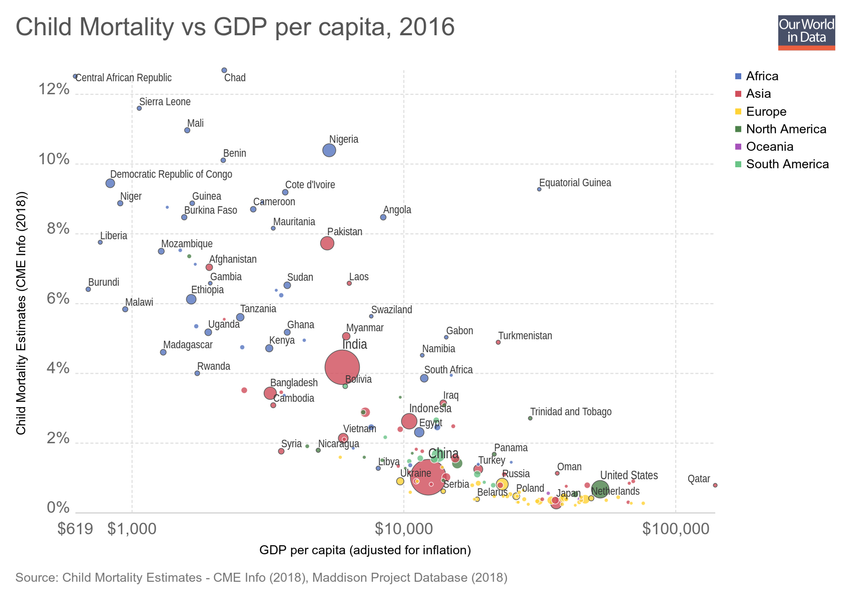
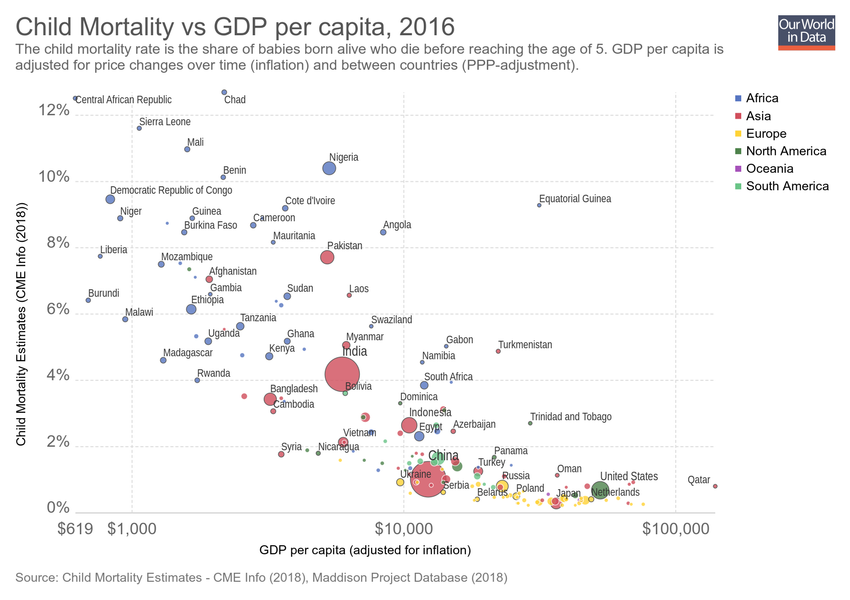
Updating chart child-mortality-vs-gdp-per-capita

diff --git a/grapher/child-mortality-vs-gdp-per-capita.html b/grapher/child-mortality-vs-gdp-per-capita.html
@@ -1,4 +1,4 @@
-<!doctype html><html><head><meta name="viewport" content="width=device-width, initial-scale=1" /><title>Child Mortality vs GDP per capita - Our World in Data</title><meta name="description" content="An interactive visualization from Our World in Data." /><link rel="canonical" href="https://ourworldindata.org/grapher/child-mortality-vs-gdp-per-capita" /><meta property="fb:app_id" content="1149943818390250" /><meta property="og:url" content="https://ourworldindata.org/grapher/child-mortality-vs-gdp-per-capita" /><meta property="og:title" content="Child Mortality vs GDP per capita" /><meta property="og:description" content="An interactive visualization from Our World in Data." /><meta property="og:image" content="https://ourworldindata.org/grapher/exports/child-mortality-vs-gdp-per-capita.png?v=3" /><meta property="og:image:width" content="850" /><meta property="og:image:height" content="600" /><meta property="og:site_name" content="Our World in Data" /><meta name="twitter:card" content="summary_large_image" /><meta name="twitter:site" content="@OurWorldInData" /><meta name="twitter:creator" content="@OurWorldInData" /><meta name="twitter:title" content="Child Mortality vs GDP per capita" /><meta name="twitter:description" content="An interactive visualization from Our World in Data." /><meta name="twitter:image" content="https://ourworldindata.org/grapher/exports/child-mortality-vs-gdp-per-capita.png?v=3" /><style>
+<!doctype html><html><head><meta name="viewport" content="width=device-width, initial-scale=1" /><title>Child Mortality vs GDP per capita - Our World in Data</title><meta name="description" content="The child mortality rate is the share of babies born alive who die before reaching the age of 5. GDP per capita is adjusted for price changes over time (inflation) and between countries (PPP-adjustment)." /><link rel="canonical" href="https://ourworldindata.org/grapher/child-mortality-vs-gdp-per-capita" /><meta property="fb:app_id" content="1149943818390250" /><meta property="og:url" content="https://ourworldindata.org/grapher/child-mortality-vs-gdp-per-capita" /><meta property="og:title" content="Child Mortality vs GDP per capita" /><meta property="og:description" content="The child mortality rate is the share of babies born alive who die before reaching the age of 5. GDP per capita is adjusted for price changes over time (inflation) and between countries (PPP-adjustment)." /><meta property="og:image" content="https://ourworldindata.org/grapher/exports/child-mortality-vs-gdp-per-capita.png?v=5" /><meta property="og:image:width" content="850" /><meta property="og:image:height" content="600" /><meta property="og:site_name" content="Our World in Data" /><meta name="twitter:card" content="summary_large_image" /><meta name="twitter:site" content="@OurWorldInData" /><meta name="twitter:creator" content="@OurWorldInData" /><meta name="twitter:title" content="Child Mortality vs GDP per capita" /><meta name="twitter:description" content="The child mortality rate is the share of babies born alive who die before reaching the age of 5. GDP per capita is adjusted for price changes over time (inflation) and between countries (PPP-adjustment)." /><meta name="twitter:image" content="https://ourworldindata.org/grapher/exports/child-mortality-vs-gdp-per-capita.png?v=5" /><style>
         html, body {
             height: 100%;
             margin: 0;
@@ -20,8 +20,8 @@
         }
     </style><noscript><style>
                     figure { display: none !important; }
-                </style></noscript><link rel="stylesheet" href="https://ourworldindata.org/grapher/assets/commons.bundle.9b8c6ed3f71d7662b5f2.css" /><link rel="preload" href="/grapher/data/variables/201+66390+72+123.json?v=3" as="fetch" crossorigin /></head><body class="singleChart"><figure data-grapher-src="/grapher/child-mortality-vs-gdp-per-capita"></figure><noscript id="fallback"><img src="/grapher/exports/child-mortality-vs-gdp-per-capita.svg" /><p>Interactive visualization requires JavaScript</p></noscript><script src="https://cdn.polyfill.io/v2/polyfill.min.js?features=es6,fetch"></script><script src="https://ourworldindata.org/grapher/assets/commons.bundle.9b8c6ed3f71d7662b5f2.js"></script><script src="https://ourworldindata.org/grapher/assets/charts.bundle.9b8c6ed3f71d7662b5f2.js"></script><script>
-        var jsonConfig = {"id":3124,"map":{"projection":"World","colorSchemeLabels":[],"colorSchemeValues":[],"customNumericColors":[],"customCategoryColors":{},"customCategoryLabels":{},"customHiddenCategories":{}},"tab":"chart","slug":"child-mortality-vs-gdp-per-capita","type":"ScatterPlot","title":"Child Mortality vs GDP per capita","xAxis":{"scaleType":"log","canChangeScaleType":true},"yAxis":{"min":0,"scaleType":"linear","canChangeScaleType":true},"maxTime":2016,"minTime":2016,"version":3,"hasMapTab":false,"stackMode":"absolute","dimensions":[{"display":{"unit":"%","conversionFactor":0.1},"property":"y","variableId":201,"saveToVariable":true},{"display":{"name":"GDP per capita (adjusted for inflation)"},"property":"x","variableId":66390},{"display":{},"property":"size","variableId":72},{"display":{},"property":"color","variableId":123}],"hasChartTab":true,"isPublished":true,"selectedData":[]};
+                </style></noscript><link rel="stylesheet" href="https://ourworldindata.org/grapher/assets/commons.bundle.9b8c6ed3f71d7662b5f2.css" /><link rel="preload" href="/grapher/data/variables/201+66390+72+123.json?v=5" as="fetch" crossorigin /></head><body class="singleChart"><figure data-grapher-src="/grapher/child-mortality-vs-gdp-per-capita"></figure><noscript id="fallback"><img src="/grapher/exports/child-mortality-vs-gdp-per-capita.svg" /><p>Interactive visualization requires JavaScript</p></noscript><script src="https://cdn.polyfill.io/v2/polyfill.min.js?features=es6,fetch"></script><script src="https://ourworldindata.org/grapher/assets/commons.bundle.9b8c6ed3f71d7662b5f2.js"></script><script src="https://ourworldindata.org/grapher/assets/charts.bundle.9b8c6ed3f71d7662b5f2.js"></script><script>
+        var jsonConfig = {"id":3124,"map":{"projection":"World","colorSchemeLabels":[],"colorSchemeValues":[],"customNumericColors":[],"customCategoryColors":{},"customCategoryLabels":{},"customHiddenCategories":{}},"tab":"chart","slug":"child-mortality-vs-gdp-per-capita","type":"ScatterPlot","title":"Child Mortality vs GDP per capita","xAxis":{"scaleType":"log","canChangeScaleType":true},"yAxis":{"min":0,"scaleType":"linear","canChangeScaleType":true},"maxTime":2016,"minTime":2016,"version":5,"subtitle":"The child mortality rate is the share of babies born alive who die before reaching the age of 5. GDP per capita is adjusted for price changes over time (inflation) and between countries (PPP-adjustment).","hasMapTab":false,"stackMode":"absolute","dimensions":[{"display":{"unit":"%","conversionFactor":0.1},"property":"y","variableId":201,"saveToVariable":true},{"display":{"name":"GDP per capita (adjusted for inflation)"},"property":"x","variableId":66390},{"display":{},"property":"size","variableId":72},{"display":{},"property":"color","variableId":123}],"hasChartTab":true,"isPublished":true,"selectedData":[]};
         var figure = document.getElementsByTagName("figure")[0];
         try {
             window.App = {};
